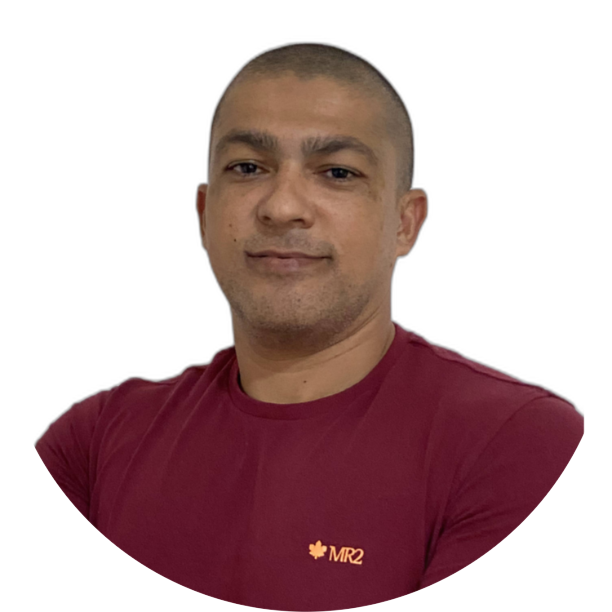
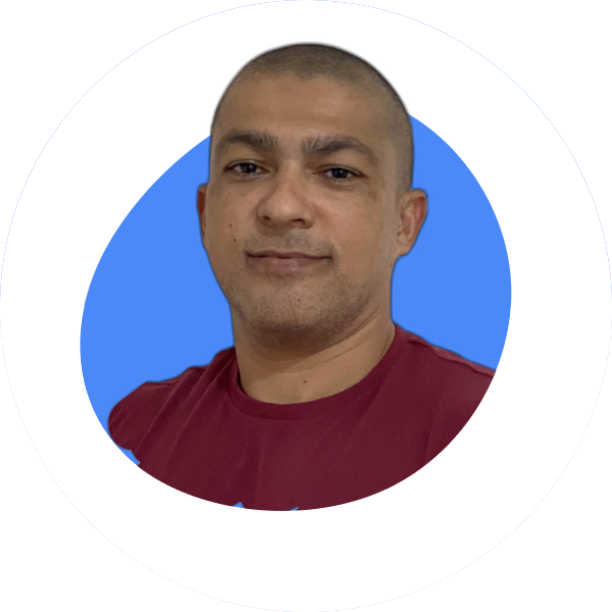
Finalizando Portiólio

Changed region(s): [[0.031, 0.1863, 0.9624, 1.0], [0.9935, 0.4346, 1.0, 0.4967]]

diff --git a/portifolio.html b/portifolio.html
@@ -20,21 +20,22 @@
 
 <body>
     <main id="container">
+        
         <aside id="bio-container">
         
             <h2>Clairton Lima</h2>
-            <img src="/img/profile-pic (5).png" alt="Clairton Lima" srcset="">
+            <img id="bio-image"src="/img/azul.png" alt="Clairton Lima" srcset="">
     
             <p>Olá, meu nome é Clairton Lima sou <span class="highlight">Desenvolverdor FullStack</span></p>
     
             <p id="welcome-text">Seja bem-vindo!</p>
     
             <ul id="social-container">
-                <ul><a href="#" target="_blank"><ion-icon name="logo-linkedin"></ion-icon></a></ul>
-                <ul><a href="#" target="_blank"><ion-icon name="logo-github"></ion-icon></a></ul>
-                <ul><a href="#" target="_blank"><ion-icon name="logo-twitter"></ion-icon></a></ul>
-                <ul><a href="#" target="_blank"><ion-icon name="logo-facebook"></ion-icon></a></ul>
-                <ul><a href="#" target="_blank"><ion-icon name="logo-instagram"></ion-icon></a></ul>
+                <li><a href="https://www.linkedin.com/in/clairtonlima/" target="_blank"><ion-icon name="logo-linkedin"></ion-icon></a></li>
+                <li><a href="https://github.com/Clairtonlm" target="_blank"><ion-icon name="logo-github"></ion-icon></a></li>
+                <li><a href="https://twitter.com/clairtonlm" target="_blank"><ion-icon name="logo-twitter"></ion-icon></a></li>
+                <li><a href="https://www.facebook.com/clairtonlima" target="_blank"><ion-icon name="logo-facebook"></ion-icon></a></li>
+                <li><a href="https://www.instagram.com/clairton.lima/" target="_blank"><ion-icon name="logo-instagram"></ion-icon></a></li>
             </ul>
             <div id="email-container">
                 <ion-icon name="email-outline"></ion-icon><a href="clairtonlm@gmail.com">clairtonlm@gmail.com</a>
@@ -46,12 +47,12 @@
     
             <p id="title"><span class="highlight">Desenvolverdor FullStack</span></p>
     
-            <p class="description">Cursando Análise e Desenvolvimento de Sistemas - Tecnológo na UNESA- Universidade Estácio de Sá. Cursando uma formação de Desenvolvimento Full-Stack com especialização em <span class="highlight">Front-End</span> e<span class="highlight">Back-end</span>  na Digital College presencial na cidade de  Fortaleza-CE e Cursando uma formação de <span class="highlight">Desenvolvimento Full-Stack Java Web</span> na plataforma EAD JDEv-Treinamentos.</p>
+            <p class="description">Cursando Análise e Desenvolvimento de Sistemas - Tecnológo na UNESA- Universidade Estácio de Sá. Cursando uma formação de Desenvolvimento Full-Stack com especialização em <span class="highlight">Front-End</span> e <span class="highlight">Back-end</span>  na Digital College presencial na cidade de  Fortaleza-CE e Cursando uma formação de <span class="highlight">Desenvolvimento Full-Stack Java Web</span> na plataforma EAD JDEv-Treinamentos.</p>
     
             <p class="description">
                 Gosto de participar do projeto desde a criaçãp dos requisitos ao deploy da aplicação.Possuo conhecimentos em: HTML5, CSS3, JavaScript, Sass ,Java, Angular, React, Bootstrap, Git&GitHub e MySQL. 
             </p>
-            <a href="#" id="btn-projects"><ion-icon name="share-social-outline"></ion-icon><span>Ver Projetos</span></a>
+            <a href="https://github.com/Clairtonlm" target="_blank" id="btn-projects"><ion-icon name="share-social-outline"></ion-icon><span>Ver Projetos</span></a>
             <h2 id="skills-section-title">Minhas Skills</h2>
             <p class="description">Conheça as tecnologias que domino/estudo:</p>
             <div id="skills-container">

diff --git a/css/portifolio.css b/css/portifolio.css
@@ -7,12 +7,12 @@
 }
 /*Variaveis*/
 :root{
-    --main-color:#264755;
+    --main-color:#222ce7;
     --main-text-color:#FFF;
-    --borde-color:#999;
-    --bio-bg-color:#7c848f;
+    --borde-color:#fff;
+    --bio-bg-color:#081410;
     --bio-border-color:#293544;
-    --about-bg-color:#67c69a;
+    --about-bg-color:#10432c;
 
 }
 /*General*/
@@ -40,10 +40,161 @@
     background-color: var(--about-bg-color);
     padding: 50px;
 }
-#bio-container img{
-    width: 150px;
-    height: 150px;
+#bio-container h2{
+    margin-bottom: 25px;
+}
+#bio-container p{
+    margin-bottom: 20px;
+}
+#bio-container #welcome-text{
+    font-weight: bold;
+    font-size: 20px;
+}
+
+#bio-image{
+    width: 175px;
+    height: 175px;
+    border-radius: 50%;
+    margin-bottom: 25px;
 
 }
+#social-container{
+    display: flex;
+    justify-content: center;
+    list-style: none;
+    border-bottom:1px solid var(--borde-color);
+    margin-bottom: 25px;
+    padding-bottom: 25px;
+    
+}
+#social-container li{
+    flex: 1 1 0;
+    max-width: 60px;
+}
+#social-container li a{
+    color: var(--main-color);
+    font-size: 30px;
+}
+#email-container{
+    display: flex;
+    justify-content: center;
+}
+ /*#email-container ion-icon, #email-container a{
+    flex: 1 1 0;
+
+ }*/
+ /*About Container*/
+ #name{
+    font-size: 42px;
+    margin-bottom: 15px;
+
+ }
+ #title{
+    font-size: 24px;
+    margin-bottom: 15px;
+    font-weight: bold;
+
+ }
+ .description{
+    max-width: 85%;
+    margin-bottom: 10px;
+ }
+ #btn-projects{
+    font-weight: bold;
+    font-size: 16px;
+    color: var(--main-text-color);
+    background-color: var(--main-color);
+    border: var(--main-color);
+    border-radius: 5px;
+    text-decoration: none;
+    transition: .5s;
+    margin: 25px 0;
+    padding: 12px 10px;
+    width: 150px;
+    text-align: center;
+    display: flex;
+ }
+ #btn-projects ion-icon, #btn-projects span{
+    flex: 1 1 0;
+ }
+ #btn-projects ion-icon{
+    font-size: 20px;
+    max-width: 20px;     
+ }
+ #btn-projects:hover{
+    background-color: lightcoral;
+ }
+ #skills-section-title{
+    border-top: 1px solid var(--borde-color);
+    padding-top: 20px;
+    margin-bottom: 20px;
+
+ }
+ #skills-container{
+    display: flex;
+    flex-wrap: wrap;
+ }
+ .skills-box{
+    flex: 1 1 33%;
+    max-width: 33%;
+    margin-bottom: 35px;
+
+ }
+ .skills-tittle{
+    font-size: 24px;
+    margin-bottom: 25px;
+    font-weight: bold;
+    padding-left: 10px;
+    border-left: 5px solid var(--main-color);
+ }
+ .skills-box i{
+    font-size: 45px;
+    margin-right: 10px;
+ }
+ /*Responsividade*/
+ @media(max-width:450px){
+    #container{
+        flex-direction: column;
+    }
+    #bio-container{
+        min-height: auto;
+        border-right: none;
+        border-bottom: 5px solid var(--bio-border-color);
+    }
+    #bio-container h2{
+        display: none;
+    }
+    #bio-container p{
+        max-width: 60%;
+        margin: 10px auto;
+
+    }
+    #about-container{
+        text-align: center;
+        padding: 30px;
+    }
+    #about-container .description{
+        margin: 10px auto;
+        max-width: 100%;
+        line-height: 26px;
+
+    }
+    #btn-projects{
+        margin: 20px auto;
+    }
+    .skills-box{
+        flex: 1 1 100%;
+        max-width: 100%;
+        margin-bottom: 40px;
+        text-align: left;
+    }
+    .skills-box i{
+        font-size: 60px;
+    }
+
+ }
+ 
+
+    
 
 
